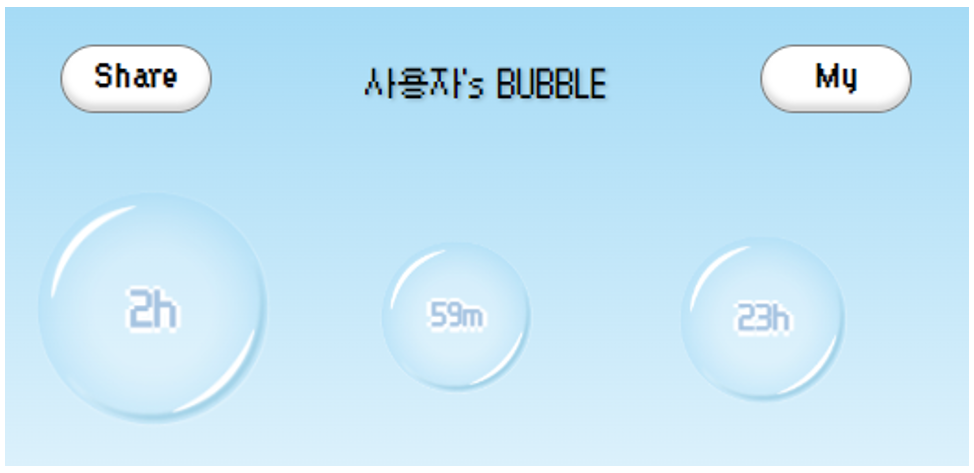
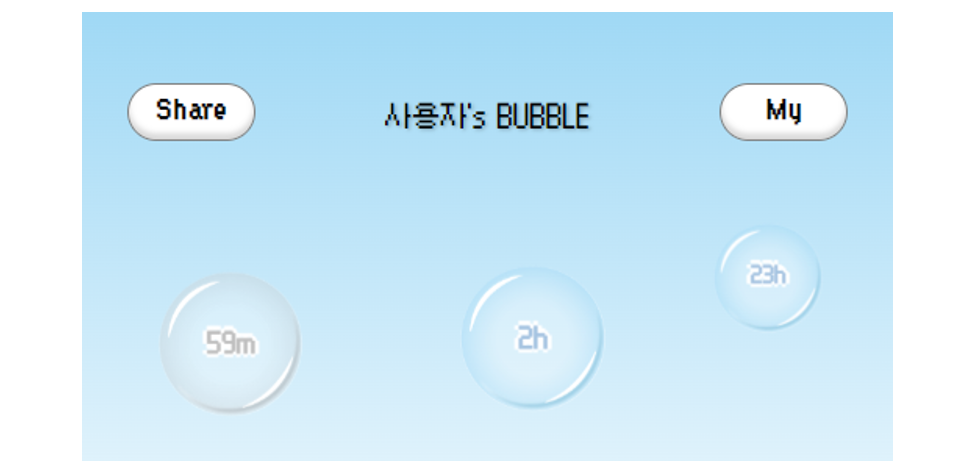
sparkles: feat: 튜토리얼 회색버블 내용 추가, 탈퇴 POST로 변경

diff --git a/frontend/src/components/tutorialPopup.vue b/frontend/src/components/tutorialPopup.vue
@@ -24,19 +24,19 @@
             <span class="carousel-text">기본 만료시간은 24시간으로<br>터치해서 변경할 수 있습니다</span>
           </slide>
           <slide class="carousel-slide">
-            <img class="carousel-image" src="../assets/tutorial_04.png" alt=""><br>
+            <img class="carousel-image" src="../assets/tutorial_04.png" alt=""><br><br>
             <span class="carousel-text">닉네임을 작성하지 않으면<br>'익명'으로 발송됩니다</span>
           </slide>
           <slide class="carousel-slide">
-            <img class="carousel-image" src="../assets/tutorial_05.png" alt=""><br>
-            <span class="carousel-text">버블 위 숫자는<br>버블이 터지기까지 남은 시간입니다</span>
+            <img class="carousel-image" src="../assets/tutorial_05.png" alt=""><br><br>
+            <span class="carousel-text">버블 위 숫자는<br>버블이 터지기까지 남은 시간입니다<br>읽은 버블은 회색으로 변합니다</span>
           </slide>
           <slide class="carousel-slide">
-            <img class="carousel-image" src="../assets/tutorial_06.png" alt=""><br>
+            <img class="carousel-image" src="../assets/tutorial_06.png" alt=""><br><br>
             <span class="carousel-text">받은 버블은 만료 시간이 지나면<br>다시 볼 수 없으니 조심하세요!</span>
           </slide>
           <slide class="carousel-slide">
-            <img class="carousel-image" src="../assets/tutorial_07.png" alt=""><br>
+            <img class="carousel-image" src="../assets/tutorial_07.png" alt=""><br><br>
             <span class="carousel-text">마이페이지로 이동해<br>내가 보낸 버블을 확인해보세요</span>
           </slide>
         </carousel>

diff --git a/frontend/src/api/user.js b/frontend/src/api/user.js
@@ -131,7 +131,7 @@ async function deleteuser(success, fail) {
   const decryptAccessToken = CryptoJS.enc.Utf8.stringify(cipher).toString();
   let token = "Bearer " + decryptAccessToken;
   api.defaults.headers["Authorization"] = token;
-  await api.delete(`/signout`).then(success).catch(fail);
+  await api.post(`/signout`).then(success).catch(fail);
 }
 //access 토큰 새로 발급
 async function gettoken(success, fail) {
